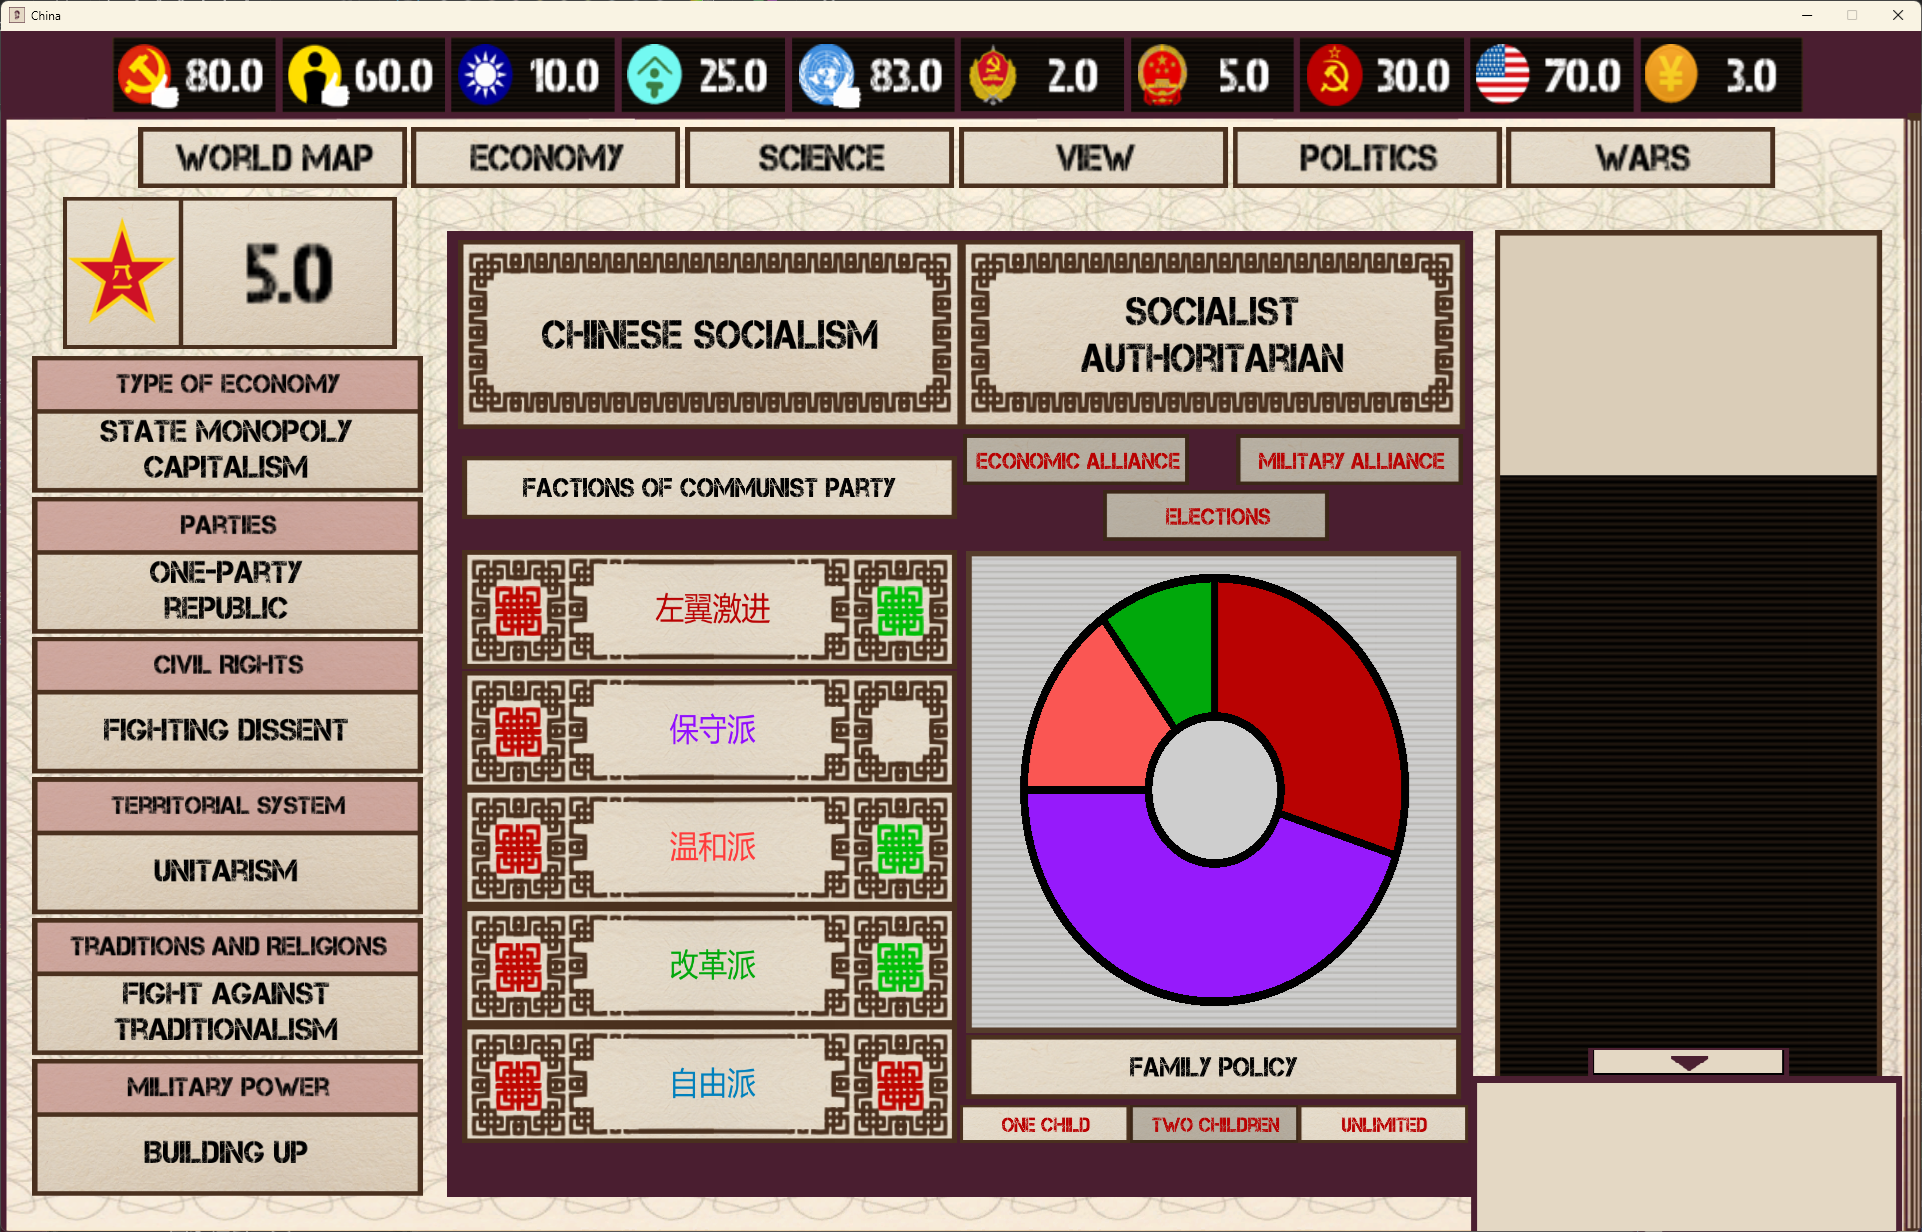
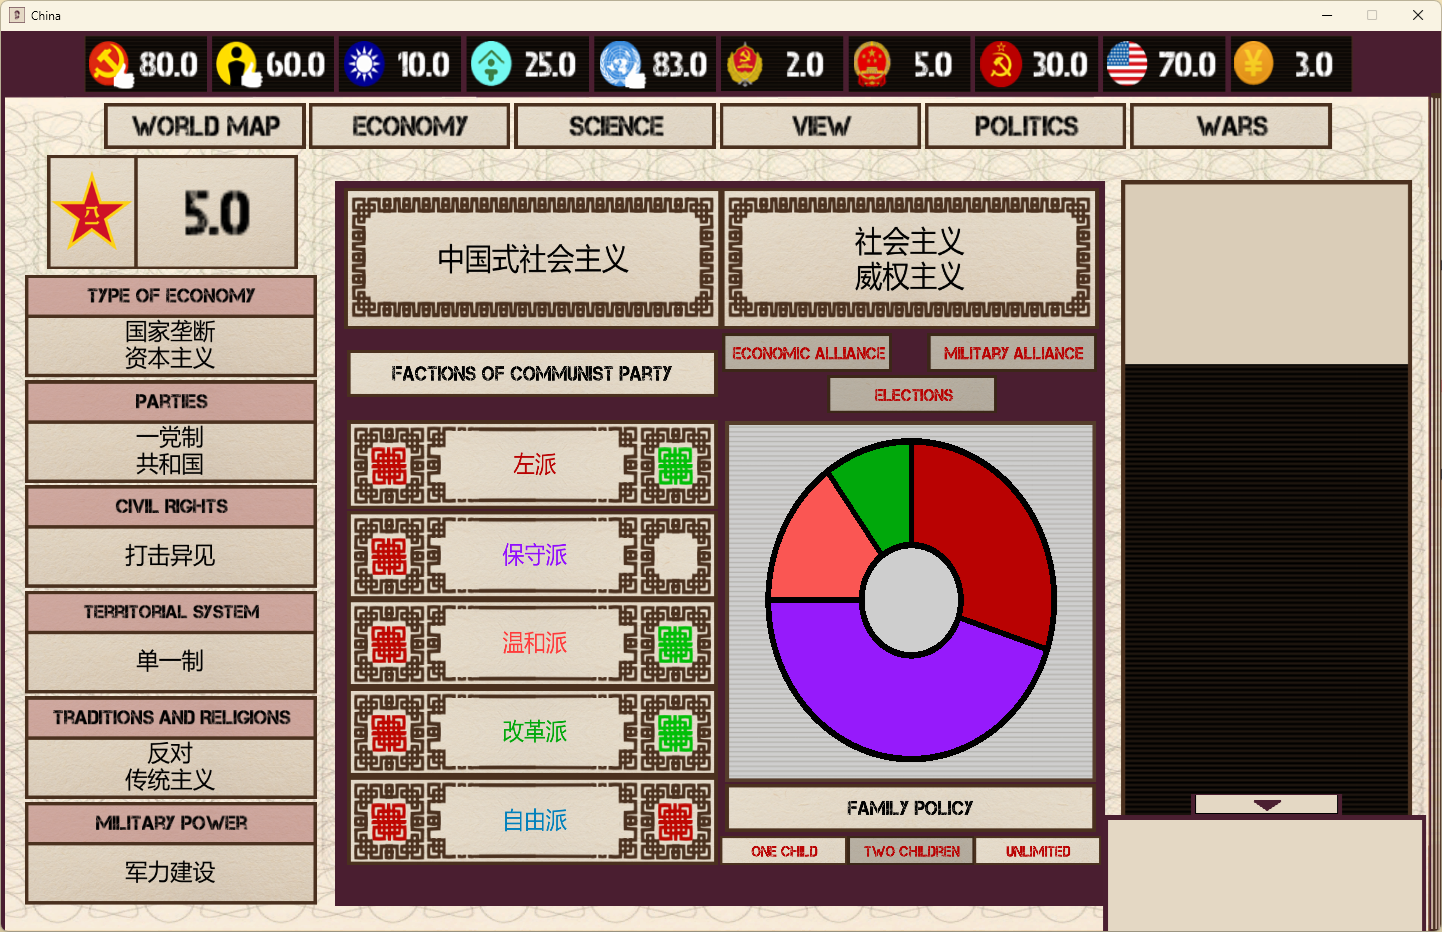
更新说明文档

diff --git a/README.md b/README.md
@@ -2,7 +2,7 @@
 
 ## 目前翻译版本针对游戏1.7.9.2
 
-### 如果遇到翻译问题请发issues等，有些内容是贴图或可能是矢量的，我目前还不太会处理这些东西，等我研究好了就把工具做完整。
+### 如果遇到翻译问题请发issues等，部分文本我尚未找到位置，还有些内容是贴图或可能是矢量的，我目前还不太会处理这些东西，等我研究好了就把工具做完整。
 
 #### 示范如下：
 
@@ -13,3 +13,5 @@
 ![3](./3.png)
 
 ![4](./4.png)
+
+![5](./4.png)
